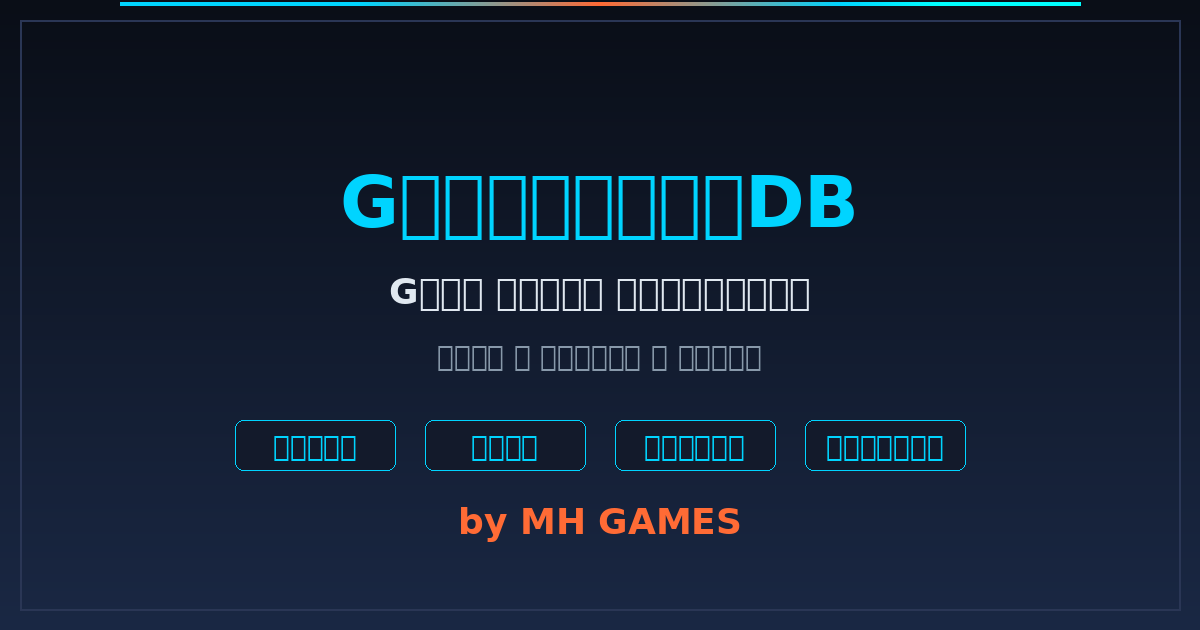
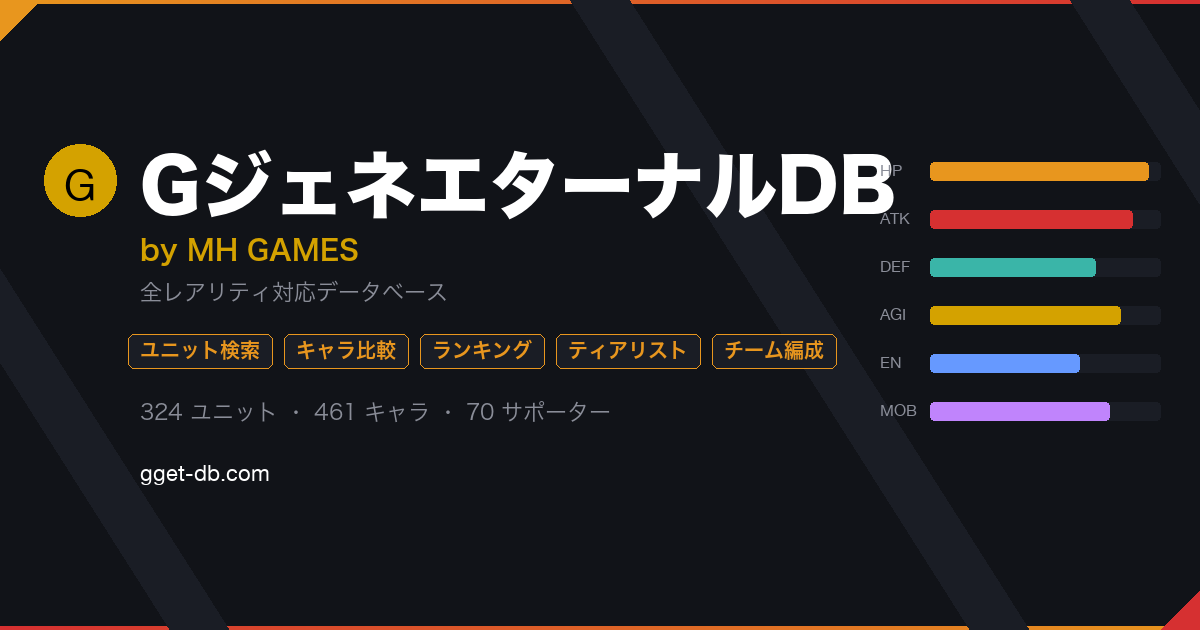
fix: OGP画像を日本語対応で再作成＋全URLをgget-db.comに統一
- 日本語フォント（ヒラギノ角ゴシック）で豆腐問題を解消
- サイトのカラースキーム（ダーク背景＋ゴールド/レッドアクセント）に統一
- 機能タグ（ユニット検索/キャラ比較/ランキング/ティアリスト/チーム編成）を表示
- OGP/Twitter Card/canonical/構造化データのURLをgget-db.comに更新

diff --git a/public/index.html b/public/index.html
@@ -7,16 +7,16 @@
 <meta name="description" content="Gジェネレーション エターナル（Gジェネ エターナル）の全ユニット・キャラクター・サポーターを網羅したデータベース。レアリティ・シリーズ・タイプ・デバフ効果など多彩なフィルタで検索可能。ステータス比較やスキル確認に。">
 <meta name="keywords" content="Gジェネ エターナル,G Generation Eternal,GジェネエターナルDB,ユニット一覧,キャラクター,サポーター,データベース,ステータス,スキル,攻略,検索">
 <link rel="icon" type="image/svg+xml" href="/favicon.svg">
-<link rel="canonical" href="https://mh-dev-gget-db.vercel.app/">
+<link rel="canonical" href="https://gget-db.com/">
 
 <!-- OGP (Open Graph) -->
 <meta property="og:title" content="GジェネエターナルDB｜ユニット・キャラ・サポーター検索データベース">
 <meta property="og:description" content="Gジェネ エターナルの全ユニット・キャラクター・サポーターを網羅。レアリティ・シリーズ・デバフ効果など多彩なフィルタで検索可能。">
 <meta property="og:type" content="website">
-<meta property="og:url" content="https://mh-dev-gget-db.vercel.app/">
+<meta property="og:url" content="https://gget-db.com/">
 <meta property="og:site_name" content="GジェネエターナルDB by MH GAMES">
 <meta property="og:locale" content="ja_JP">
-<meta property="og:image" content="https://mh-dev-gget-db.vercel.app/assets/ogp.png">
+<meta property="og:image" content="https://gget-db.com/assets/ogp.png">
 <meta property="og:image:width" content="1200">
 <meta property="og:image:height" content="630">
 
@@ -25,7 +25,7 @@
 <meta name="twitter:site" content="@mh_games_jp">
 <meta name="twitter:title" content="GジェネエターナルDB｜ユニット・キャラ・サポーター検索">
 <meta name="twitter:description" content="Gジェネ エターナルの全ユニット・キャラ・サポーターDB。多彩なフィルタで検索。">
-<meta name="twitter:image" content="https://mh-dev-gget-db.vercel.app/assets/ogp.png">
+<meta name="twitter:image" content="https://gget-db.com/assets/ogp.png">
 
 <!-- その他SEO -->
 <meta name="robots" content="index, follow">
@@ -39,7 +39,7 @@
   "@type": "WebApplication",
   "name": "GジェネエターナルDB",
   "alternateName": "G Generation Eternal Database",
-  "url": "https://mh-dev-gget-db.vercel.app/",
+  "url": "https://gget-db.com/",
   "description": "Gジェネレーション エターナルの全ユニット・キャラクター・サポーターを網羅したデータベース。レアリティ・シリーズ・タイプ・デバフ効果など多彩なフィルタで検索可能。",
   "applicationCategory": "GameApplication",
   "operatingSystem": "Web",
@@ -66,12 +66,12 @@
   "@context": "https://schema.org",
   "@type": "WebSite",
   "name": "GジェネエターナルDB",
-  "url": "https://mh-dev-gget-db.vercel.app/",
+  "url": "https://gget-db.com/",
   "potentialAction": {
     "@type": "SearchAction",
     "target": {
       "@type": "EntryPoint",
-      "urlTemplate": "https://mh-dev-gget-db.vercel.app/?q={search_term_string}"
+      "urlTemplate": "https://gget-db.com/?q={search_term_string}"
     },
     "query-input": "required name=search_term_string"
   }
